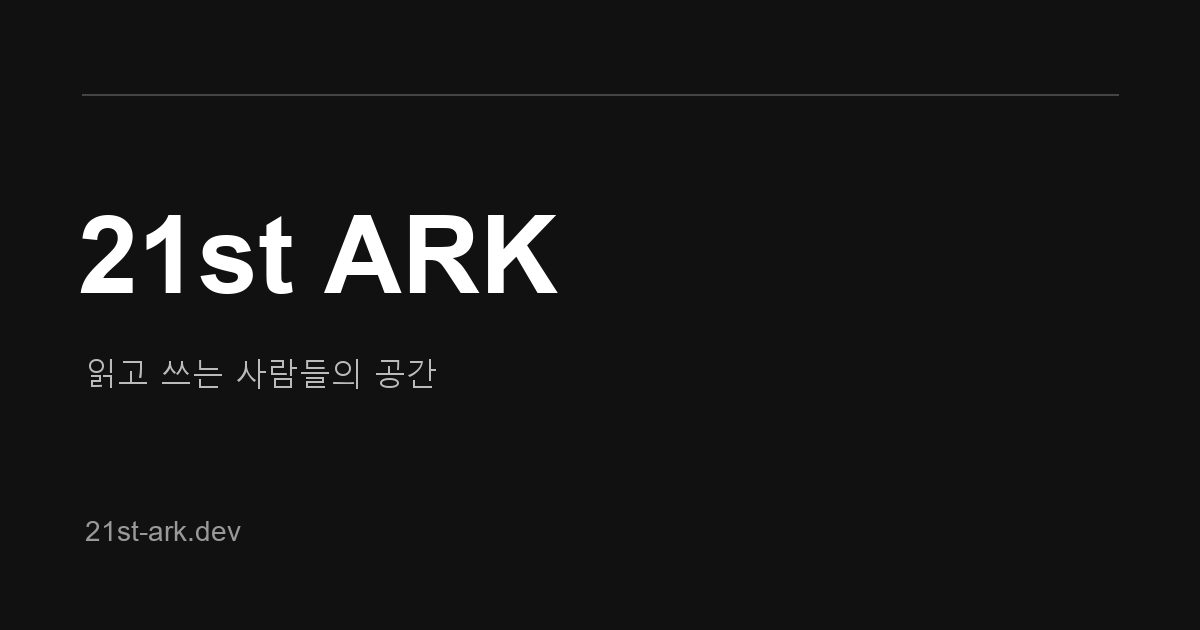
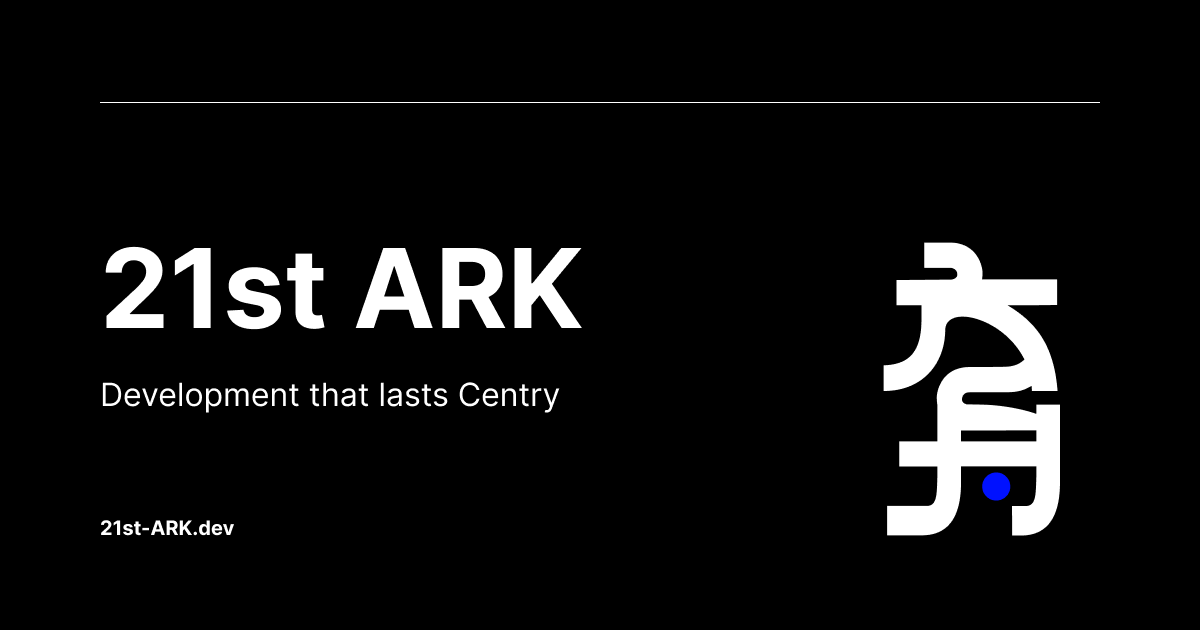
Use supplied ARK brand image for default social previews

diff --git a/apps/frontend/seo.ts b/apps/frontend/seo.ts
@@ -1,6 +1,6 @@
 import {bootHtml,bootKind} from './boot';
 import {plainBio} from '../../shared/bio';
-import {CANONICAL_ORIGIN} from '../../shared/site';
+import {CANONICAL_ORIGIN,DEFAULT_SOCIAL_IMAGE} from '../../shared/site';
 import {pageRoute,viewPath,writerPath} from '../../shared/paths';
 type PublicPage={type:string;path:string;indexable?:boolean;title?:string;summary?:string;name?:string;username?:string;bio?:string;body?:string;body_doc?:unknown;image?:string;writer?:{name:string;username:string;id:string};published_at?:number;updated_at?:number;posts?:any[];writers?:any[]};
 type Env={API:Fetcher};
@@ -35,7 +35,7 @@ export function pageHtml(page:PublicPage){
  return `<main class="seo-page"><h1>21st ARK</h1><p>개발과 기술, 일상과 에세이를 읽고 나누는 공간</p><h2>최신 포스트</h2>${postLinks(page.posts)}<h2>멤버</h2>${(page.writers??[]).map(writer=>`<p><a href="${htmlEscape(writer.path)}">${htmlEscape(writer.name)}</a> ${htmlEscape(plainBio(writer.bio))}</p>`).join('')}</main>`;
 }
 export function metadata(page:PublicPage){
- const title=page.type==='post'?page.title:page.type==='writer'?page.name:page.title||'홈',desc=description(page),url=absolute(page.path),image=absolute(page.image??'/assets/social-default.png'),type=page.type==='post'?'article':page.type==='writer'?'profile':'website';
+ const title=page.type==='post'?page.title:page.type==='writer'?page.name:page.title||'홈',desc=description(page),url=absolute(page.path),image=absolute(page.image&&page.image!=='/assets/social-default.png'?page.image:DEFAULT_SOCIAL_IMAGE),type=page.type==='post'?'article':page.type==='writer'?'profile':'website';
  const tags=[`<title>${htmlEscape(title)} | 21st ARK</title>`,`<link rel="canonical" href="${htmlEscape(url)}"/>`,`<meta name="description" content="${htmlEscape(desc)}"/>`,`<meta name="robots" content="index,follow,max-image-preview:large"/>`,...Object.entries({'og:title':title+' | 21st ARK','og:description':desc,'og:type':type,'og:url':url,'og:image':image,'og:image:secure_url':image,'og:image:alt':page.type==='post'?page.title:page.name||'21st ARK','og:site_name':'21st ARK','og:locale':'ko_KR'}).map(([name,value])=>`<meta property="${name}" content="${htmlEscape(value)}"/>`),...Object.entries({'twitter:card':'summary_large_image','twitter:title':title+' | 21st ARK','twitter:description':desc,'twitter:image':image}).map(([name,value])=>`<meta name="${name}" content="${htmlEscape(value)}"/>`)];
  const schema=page.type==='post'?{'@context':'https://schema.org','@type':'BlogPosting',headline:page.title,description:desc,url,mainEntityOfPage:url,image,author:{'@type':'Person',name:page.writer!.name,url:absolute(writerPath(page.writer!))},datePublished:new Date(page.published_at!*1000).toISOString(),dateModified:new Date(page.updated_at!*1000).toISOString()}:page.type==='writer'?{'@context':'https://schema.org','@type':'ProfilePage',url,mainEntity:{'@type':'Person',name:page.name,identifier:page.username,description:desc,url}}:{'@context':'https://schema.org','@type':'WebSite',name:'21st ARK',url:CANONICAL_ORIGIN};
  if(page.indexable===false)return tags.join('').replace('index,follow,max-image-preview:large','noindex,nofollow');

diff --git a/apps/frontend/src/page-metadata.js b/apps/frontend/src/page-metadata.js
@@ -1,11 +1,11 @@
 import {writerPath,postPath,viewPath} from '../../../shared/paths';
 import {plainBio} from '../../../shared/bio';
-import {CANONICAL_ORIGIN} from '../../../shared/site';
+import {CANONICAL_ORIGIN,DEFAULT_SOCIAL_IMAGE} from '../../../shared/site';
 export function setPageMetadata({article,author,view,routeError}){
   const published=article?.status==='published',profile=!article&&view==='author'&&author?.username;
   const path=article?postPath(article):profile?writerPath(author):viewPath(view),url=new URL(path,CANONICAL_ORIGIN).href;
   const title=article?.title||(profile?author.name:'21st ARK'),description=(article?.summary||(profile?plainBio(author.bio):'')||'개발과 기술, 일상과 에세이의 포스트를 읽고 나눠 보세요.').slice(0,240);
-  const image=new URL(published&&article.image_key?'/api/social/posts/'+article.id+'/image':profile&&(author.cover_url||author.avatar_url)?'/api/social/writers/'+author.id+'/image':'/assets/social-default.png',CANONICAL_ORIGIN).href;
+  const image=new URL(published&&article.image_key?'/api/social/posts/'+article.id+'/image':profile&&(author.cover_url||author.avatar_url)?'/api/social/writers/'+author.id+'/image':DEFAULT_SOCIAL_IMAGE,CANONICAL_ORIGIN).href;
   let canonical=document.querySelector('link[rel="canonical"]');if(!canonical){canonical=document.createElement('link');canonical.rel='canonical';document.head.append(canonical);}canonical.href=url;
   function meta(key,value,property=false){let element=document.head.querySelector('meta['+(property?'property':'name')+'="'+key+'"]');if(!element){element=document.createElement('meta');element.setAttribute(property?'property':'name',key);document.head.append(element);}element.content=value;}
   for(const [key,value]of Object.entries({'og:title':title+' | 21st ARK','og:description':description,'og:url':url,'og:image':image,'og:image:secure_url':image,'og:image:alt':article?.title||(profile?author.name:'21st ARK'),'og:type':article?'article':profile?'profile':'website'}))meta(key,value,true);

diff --git a/shared/site.ts b/shared/site.ts
@@ -1,2 +1,5 @@
 export const CANONICAL_ORIGIN='https://21st-ark.dev';
 export const LEGACY_ORIGIN='https://21stark.dev';
+
+// Version the social URL so crawlers fetch a new image after a brand update.
+export const DEFAULT_SOCIAL_IMAGE='/assets/social-default.png?v=20261124';
